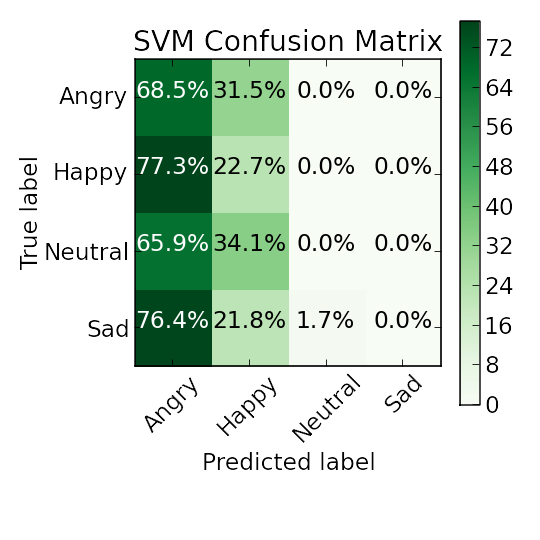
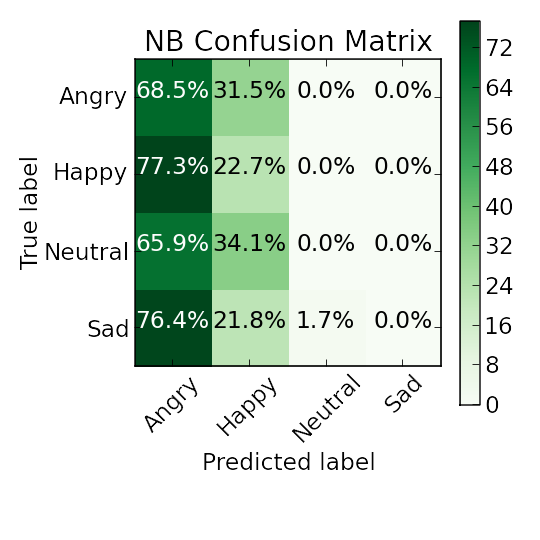
Fixed name of gnb confusion matrix

Changed region(s): [[0.237, 0.0593, 0.8296, 0.1185]]

diff --git a/EmotionCommotion/backend/classifiers/youtube_classifier.py b/EmotionCommotion/backend/classifiers/youtube_classifier.py
@@ -85,7 +85,7 @@ cm_normalized = cnf_matrix.astype('float') / cnf_matrix.sum(axis=1)[:, np.newaxi
 cm_normalized = cm_normalized.round(3) * 100
 print("NB test accuracy: ", cm_normalized.trace()/4)  # Average accuracy accross all 4 emotions
 
-plot_confusion_matrix(cm_normalized,fontsize=14,title='SVM Confusion Matrix',
+plot_confusion_matrix(cm_normalized,fontsize=14,title='NB Confusion Matrix',
                       filename='../results/yt_gnb_cm.png')
 # SVM
 
